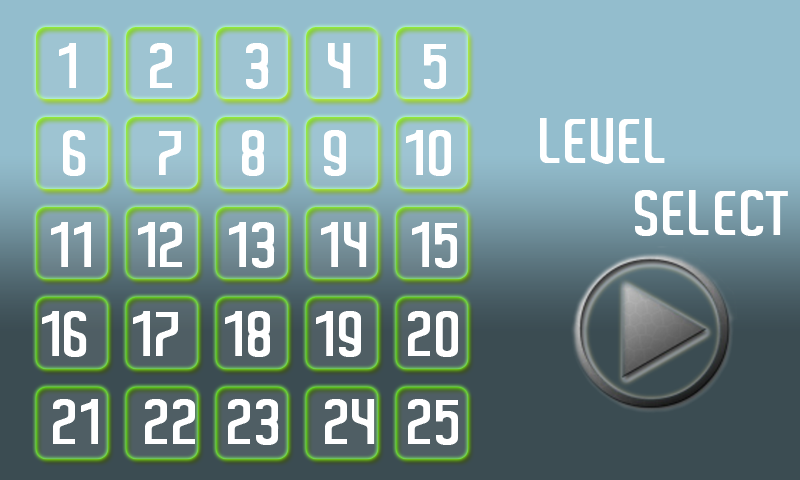
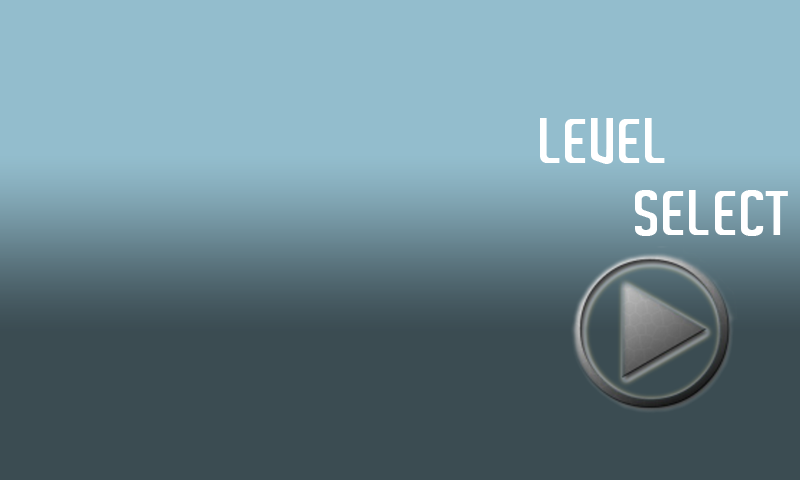
changed level select to be dynamic based on the levels in assets\levels, buttons created automatically.

Changed region(s): [[0.0312, 0.0312, 0.5938, 0.9688]]

diff --git a/src/voldaran/com/Upright/MenuTitleScreen.java b/src/voldaran/com/Upright/MenuTitleScreen.java
@@ -52,58 +52,9 @@ public class MenuTitleScreen {
 		MenuTitleScreen.menuTitlePanels.add(About);
 		MenuTitleScreen.menuTitlePanels.add(Play);
 		
-		Rect levelButton1 = new Rect(50, 50, 122, 122);
-		levelButton1.offsetTo(36, 30);
-		//Create Button with onClick Function
-		MenuButton level1 = new MenuButton(levelButton1, "levelOne", mGame) {
-			public void onClick() {
-				game.thread.loadLevel("level1.txt");
-				game.gameState = GameState.PLAYING;
-			}
-		};
-		Play.addButton(level1);
-		Rect levelButton2 = new Rect(50, 50, 122, 122);
-		levelButton2.offsetTo(126, 30);
-		MenuButton level2 = new MenuButton(levelButton2, "levelTwo", mGame) {
-			public void onClick() {
-				game.thread.loadLevel("level2.txt");
-				game.gameState = GameState.PLAYING;
-			}
-		};
-		Play.addButton(level2);
 		
-		Rect levelButton3 = new Rect(50, 50, 122, 122);
-		levelButton3.offsetTo(212, 30);
-		MenuButton level3 = new MenuButton(levelButton3, "levelThree", mGame) {
-			public void onClick() {
-				game.thread.loadLevel("level3.txt");
-				game.gameState = GameState.PLAYING;
-			}
-		};
-
-		Play.addButton(level3);
-		
-		Rect levelButton4 = new Rect(50, 50, 122, 122);
-		levelButton4.offsetTo(302, 30);
-		MenuButton level4 = new MenuButton(levelButton4, "levelFour", mGame) {
-			public void onClick() {
-				game.thread.loadLevel("level4.txt");
-				game.gameState = GameState.PLAYING;
-			}
-		};
-
-		Play.addButton(level4);
-		
-		Rect levelButton5 = new Rect(50, 50, 122, 122);
-		levelButton5.offsetTo(392, 30);
-		MenuButton level5 = new MenuButton(levelButton5, "levelFive", mGame) {
-			public void onClick() {
-				game.thread.loadLevel("level5.txt");
-				game.gameState = GameState.PLAYING;
-			}
-		};
-
-		Play.addButton(level5);
+		Bitmap menuButton = Game.loadBitmapAsset("menublock.png");
+		MenuButton.loadLevelButtons(Play, menuButton, mGame);
 		
 		
 		
@@ -134,9 +85,7 @@ public class MenuTitleScreen {
 //					Log.d("GSTA", "setting releasePanel to Play");
 					inTransition = true;
 				} else {
-//					Log.d("GSTA", "You clicked!!!" + Play.returnButton(clicked).name);
 					if ((clicked!=null)&&(Play.returnButton(clicked)!= null)&&(!inTransition)){
-						Log.d("GSTA", "You clicked " + Play.returnButton(clicked).name);
 						Play.returnButton(clicked).onClick();
 					}
 				}
@@ -243,11 +192,16 @@ public class MenuTitleScreen {
 		} else if ((activePanel==Play)||(releasePanel==Play)) {
 			c.drawBitmap(About.bit, null, About.rec, null);
 			c.drawBitmap(Play.bit, null, Play.rec, null);
+			
+			if ((!inTransition)&&(activePanel==Play)) Play.drawButtons(c);
+			
 		} else {
 			
 			c.drawBitmap(About.bit, null, About.rec, null);
 			c.drawBitmap(Play.bit, null, Play.rec, null);
 		}
+		
+		
 		
 		
 	}

diff --git a/src/voldaran/com/Upright/MenuButton.java b/src/voldaran/com/Upright/MenuButton.java
@@ -1,29 +1,104 @@
 package voldaran.com.Upright;
 
+import java.io.IOException;
+
+import voldaran.com.Upright.Game.GameState;
+import android.content.res.AssetManager;
+import android.graphics.Bitmap;
+import android.graphics.Canvas;
+import android.graphics.Color;
+import android.graphics.Paint;
 import android.graphics.Rect;
+import android.graphics.Typeface;
+import android.util.Log;
 
 public class MenuButton {
 
-	public String name;
 	public int id;
 	public Rect clickableArea;
-	public Game game;
+	private Bitmap bitmap;
+	
+	public static Game mGame;
+	
+	public static void loadLevelButtons(MenuTitleScreenPanel menu, Bitmap b, Game g) {
+		AssetManager assets = Game.mContext.getAssets();
+		String[] happy = null;
+		mGame = g;
+		try {
+			happy = assets.list("level");
+		} catch (IOException e) {
+			// TODO Auto-generated catch block
+			e.printStackTrace();
+		}
+		if (happy!=null) {
+			
+			int colCount = 0;
+			int rowCount = 0;
+		
+			for (String fun : happy) {
+			
+//				level25.txt
+				if (fun.indexOf("level")>=0) {
+					//Load Level button
+					
+					
+					int lvlID = Integer.valueOf(fun.substring(5, fun.indexOf(".txt")));
+					int left = 10 + rowCount * 110;
+					int top = 10 + colCount * 110;
+					menu.addButton(new MenuButton(new Rect(left, top, left + 90, top + 90), lvlID, b));
+					if (rowCount>=4) {
+						rowCount = 0;
+						colCount++;
+					} else rowCount++;
+					
+				}
+			
+			}
+			
+		}
+		
+		
+	}
+	
+//	MenuButton level2 = new MenuButton(levelButton2, "levelTwo", mGame, menuButton) {
+//	public void onClick() {
+//		game.thread.loadLevel("level2.txt");
+//		game.gameState = GameState.PLAYING;
+//	}
+//};
 	
 	public MenuButton(Rect r, String Name) {
 		clickableArea = r;
-		name = Name;
-
 	}
 	
-	public MenuButton(Rect r, String Name, Game GAME) {
+	public MenuButton(Rect r, int l, Bitmap b) {
+		Log.d("GSTA", "creating button " + l);
 		clickableArea = r;
-		name = Name;
-		game = GAME;
+		id = l;
+		bitmap = b;
 	}
 	
 	public void onClick() {
+		String level = "level" + String.valueOf(id) + ".txt";
+		mGame.thread.loadLevel(level);
 		
+		mGame.gameState = GameState.PLAYING;
+	}
+	
+	public void drawButton(Canvas c) {
 		
+//		Paint paintObject = new Paint(Paint.ANTI_ALIAS_FLAG|Paint.FILTER_BITMAP_FLAG);
+//		paintObject.setColor(Color.GREEN);
+//		c.drawRect(clickableArea, paintObject);
+		
+		Paint text = new Paint();
+		    text.setColor(Color.BLACK);
+		    text.setTextSize(32);
+		    
+		    text.setTypeface(Typeface.DEFAULT_BOLD);
+		    
+		c.drawBitmap(bitmap, null, clickableArea, null);
+		c.drawText(String.valueOf(id), clickableArea.left + 45 - (String.valueOf(id).length()*8), clickableArea.top + 60, text);
 	}
 	
 }

diff --git a/src/voldaran/com/Upright/Wall.java b/src/voldaran/com/Upright/Wall.java
@@ -1,10 +1,13 @@
 package voldaran.com.Upright;
 
+import android.graphics.Canvas;
 import android.graphics.Color;
+import android.graphics.Paint;
+import android.graphics.Rect;
 
 public class Wall extends GameObject {
 	protected int colorCheckpoint;
-
+	
 	public Wall(Vec2d pos, Vec2d extent) {
 		this(pos, extent, new Vec2d(0,0));
 	}
@@ -31,6 +34,25 @@ public class Wall extends GameObject {
 	@Override
 	protected void restoreCheckpoint(){
 		color = colorCheckpoint;
+	}
+	
+	@Override
+	public void drawP(Canvas c){
+		Rect recObject = new Rect((int) left / 1000, (int) top  / 1000, (int) right  / 1000, (int)bottom  / 1000);
+		Paint paintObject = new Paint(Paint.ANTI_ALIAS_FLAG|Paint.FILTER_BITMAP_FLAG);
+		paintObject.setColor(color);
+		c.drawRect(recObject, paintObject);
+	}
+	@Override
+	public void draw(Canvas c){
+		Rect recObject = new Rect((int)((left - GameObject.offset.x) / 1000), 
+				                  (int)((top - GameObject.offset.y) / 1000), 
+				                  (int)((right - GameObject.offset.x)/ 1000), 
+		 		                 (int)((bottom - GameObject.offset.y) / 1000));
+
+		Paint paintObject = new Paint(Paint.ANTI_ALIAS_FLAG|Paint.FILTER_BITMAP_FLAG);
+		paintObject.setColor(color);
+		c.drawRect(recObject, paintObject);
 	}
 	
 }

diff --git a/src/voldaran/com/Upright/GameObstacle.java b/src/voldaran/com/Upright/GameObstacle.java
@@ -1,6 +1,9 @@
 package voldaran.com.Upright;
 
+import android.graphics.Canvas;
 import android.graphics.Color;
+import android.graphics.Paint;
+import android.graphics.Rect;
 
 public class GameObstacle extends GameObject{
 	
@@ -9,4 +12,23 @@ public class GameObstacle extends GameObject{
 		color = Color.RED;
 	}
 
+	
+	@Override
+	public void drawP(Canvas c){
+		Rect recObject = new Rect((int) left / 1000, (int) top  / 1000, (int) right  / 1000, (int)bottom  / 1000);
+		Paint paintObject = new Paint(Paint.ANTI_ALIAS_FLAG|Paint.FILTER_BITMAP_FLAG);
+		paintObject.setColor(color);
+		c.drawRect(recObject, paintObject);
+	}
+
+	@Override
+	public void draw(Canvas c){
+		Rect recObject = new Rect((int)((left - GameObject.offset.x) / 1000), 
+				                  (int)((top - GameObject.offset.y) / 1000), 
+				                  (int)((right - GameObject.offset.x)/ 1000), 
+		 		                 (int)((bottom - GameObject.offset.y) / 1000));
+		Paint paintObject = new Paint(Paint.ANTI_ALIAS_FLAG|Paint.FILTER_BITMAP_FLAG);
+		paintObject.setColor(color);
+		c.drawRect(recObject, paintObject);
+	}
 }

diff --git a/src/voldaran/com/Upright/GameObject.java b/src/voldaran/com/Upright/GameObject.java
@@ -5,8 +5,6 @@ import java.util.Iterator;
 
 import android.graphics.Canvas;
 import android.graphics.Color;
-import android.graphics.Paint;
-import android.graphics.Rect;
 import android.util.Log;
 
 public class GameObject {
@@ -143,21 +141,11 @@ public class GameObject {
 	}
 	
 	public void drawP(Canvas c){
-		Rect recObject = new Rect((int) left / 1000, (int) top  / 1000, (int) right  / 1000, (int)bottom  / 1000);
-		Paint paintObject = new Paint(Paint.ANTI_ALIAS_FLAG|Paint.FILTER_BITMAP_FLAG);
-		paintObject.setColor(color);
-		c.drawRect(recObject, paintObject);
+
 	}
 	
 	public void draw(Canvas c){
-		Rect recObject = new Rect((int)((left - GameObject.offset.x) / 1000), 
-				                  (int)((top - GameObject.offset.y) / 1000), 
-				                  (int)((right - GameObject.offset.x)/ 1000), 
-		 		                 (int)((bottom - GameObject.offset.y) / 1000));
-		 
-		Paint paintObject = new Paint(Paint.ANTI_ALIAS_FLAG|Paint.FILTER_BITMAP_FLAG);
-		paintObject.setColor(color);
-		c.drawRect(recObject, paintObject);
+
 	}
 	
 	protected boolean allowCheckpoint(){

diff --git a/src/voldaran/com/Upright/Game.java b/src/voldaran/com/Upright/Game.java
@@ -23,6 +23,7 @@ import android.graphics.Rect;
 import android.graphics.Typeface;
 import android.graphics.drawable.BitmapDrawable;
 import android.graphics.drawable.Drawable;
+import android.graphics.drawable.NinePatchDrawable;
 import android.os.Bundle;
 import android.util.DisplayMetrics;
 import android.util.Log;
@@ -201,6 +202,8 @@ public class Game extends SurfaceView implements SurfaceHolder.Callback {
 	
 	@Override public void surfaceDestroyed(SurfaceHolder holder) {
 	}
+	
+
 	
 	//Static Helper Class
 	public static Bitmap loadBitmapAsset(String asset) {

diff --git a/src/voldaran/com/Upright/MenuTitleScreenPanel.java b/src/voldaran/com/Upright/MenuTitleScreenPanel.java
@@ -3,6 +3,7 @@ package voldaran.com.Upright;
 import java.util.ArrayList;
 
 import android.graphics.Bitmap;
+import android.graphics.Canvas;
 import android.graphics.Rect;
 
 public class MenuTitleScreenPanel {
@@ -25,6 +26,13 @@ public class MenuTitleScreenPanel {
 	
 	int left, right, top, bottom;
 
+	public void drawButtons(Canvas c) {
+		for(MenuButton b : menuButtons){
+			b.drawButton(c);
+		}
+		
+	}
+	
 	public void addButton(Rect b, String name) {
 		MenuButton button = new MenuButton(b, name);
 		menuButtons.add(button);
